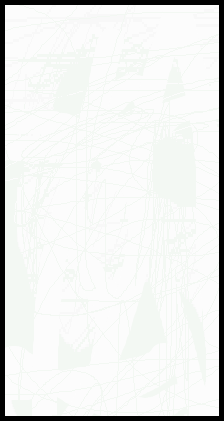
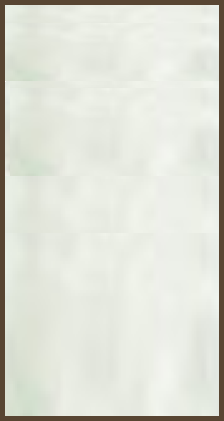
More beauty tiles

diff --git a/frontend/src/components/App.js b/frontend/src/components/App.js
@@ -1,10 +1,10 @@
 import React from "react"
 import { Canvas, useThree } from "react-three-fiber"
-import { OrbitControls, Box } from "drei"
+import { OrbitControls, Box, Stars } from "drei"
 
-import { TileToBuy, CornerTile } from "./Tile.js"
+import { CityTile, CornerTile } from "./Tile.js"
 import WS from "../utils/WS.js"
-import Color from "../utils/colors.js"
+// import Color from "../utils/colors.js"
 
 import "./App.css"
 
@@ -39,7 +39,7 @@ export default class App extends React.Component {
       }
     } )
 
-    this.ws.emit( `searchGame`, { square:5 } )
+    this.ws.emit( `searchGame`, { square:9 } )
   }
 
   loadSquareMap( tiles, size ) {
@@ -69,8 +69,7 @@ export default class App extends React.Component {
     const boxes = []
     const { loadedBoard } = this.state
     const { size, tiles } = loadedBoard
-    const paintedTiles = {}
-    const positionMultiplier = 1.1
+    const positionMultiplier = 1.0
 
     let lastCorner = 0
     for (let i = 0, x = 1, z = 1; i < (size ** 2 - (size - 2) ** 2); ++i) {
@@ -83,6 +82,7 @@ export default class App extends React.Component {
         (z - (size + 1) / 2) * positionMultiplier,
       ]
 
+      // const paintedTiles = {}
       // let color = 0x33333333
       // if (id) {
       //   if (!(id in paintedTiles)) {
@@ -99,14 +99,14 @@ export default class App extends React.Component {
       //   color = paintedTiles[ id ]
       // }
 
-      if (true || i % 4 !== 0) {
+      if (true || i % (size - 1) !== 0) {
         if (x === 1) position[ 0 ] -= .5
         if (x === size) position[ 0 ] += .5
         if (z === 1) position[ 2 ] -= .5
         if (z === size) position[ 2 ] += .5
       }
 
-      if (i % 4 === 0) {
+      if (i % (size - 1) === 0) {
         isCorner = true
         lastCorner++
         rotate = lastCorner
@@ -129,7 +129,8 @@ export default class App extends React.Component {
           position={position}
         /> )
       } else {
-        boxes.push( <TileToBuy
+        boxes.push( <CityTile
+          name={name}
           isCorner={isCorner}
           key={`${x};${z}`}
           rotate={rotate}
@@ -152,13 +153,15 @@ export default class App extends React.Component {
         {boxes}
         {/* <Box args={[ 7.5, 0.1, 7.5 ]} position={[ 0, -0.1, 0 ]}> */}
         <Box
-          args={[ 20, 0.1, 20 ]}
-          position={[ 0, -0.05, 0 ]}
+          args={[ 11.01, 0.1, 11.01 ]}
+          position={[ 0, -0.06, 0 ]}
           onPointerOver={e => e.stopPropagation()}
           onPointerOut={e => e.stopPropagation()}
         >
+          {/* <lineBasicMaterial attach="material" color={0xffffff} /> */}
           <lineBasicMaterial attach="material" color={0x202020} />
         </Box>
+        <Stars />
       </Canvas>
     </>
   }
@@ -169,5 +172,5 @@ function Camera() {
 
   camera.position.set( 0, 10, 0 )
 
-  return <OrbitControls />
+  return <OrbitControls rotateSpeed={0.5} />
 }

diff --git a/frontend/src/components/Tile.js b/frontend/src/components/Tile.js
@@ -2,6 +2,7 @@ import React from "react"
 import { Text, Box } from "drei"
 import * as THREE from "three"
 import imgTile from "./test.png"
+import imgFrame from "./frame.png"
 import imgSand from "./sand.png"
 
 class Tile extends React.Component {
@@ -11,10 +12,19 @@ class Tile extends React.Component {
   state = {
     color: this.props.color || 0xaaaaaa,
     rotate: this.props.rotate || 0,
-    y: 0,
   }
 
   active = false
+
+  /** @type {THREE.MeshBasicMaterial[]} */
+  materialArray = [
+    new THREE.MeshBasicMaterial( { color:`#dacfd7` } ),
+    new THREE.MeshBasicMaterial( { color:`#dacfd7` } ),
+    new THREE.MeshBasicMaterial( { color:`#ffffff` } ),
+    new THREE.MeshBasicMaterial( { color:`#dacfd7` } ),
+    new THREE.MeshBasicMaterial( { color:`#dacfd7` } ),
+    new THREE.MeshBasicMaterial( { color:`#dacfd7` } ),
+  ]
 
   events = {
     onPointerDown: e => {
@@ -59,34 +69,39 @@ class Tile extends React.Component {
   }
 }
 
-export class TileToBuy extends Tile {
+export class CityTile extends Tile {
   render() {
-    const { position, isCorner } = this.props
-    const { rotate, color, y } = this.state
+    const { position, isCorner, name } = this.props
+    const { rotate, color } = this.state
     const loader = new THREE.TextureLoader()
+    // const material = new THREE.MeshF
     const texTile = loader.load( imgTile )
+    const texFrame = loader.load( imgFrame )
     const textAttrs = {
       scale: [ 1, -1, 1 ],
       rotation: [ Math.PI / 180 * 90, 0, isCorner ? Math.PI / 180 * (rotate * 90 + 45) : 0 ],
       color: `black`,
-      fontSize: 0.2,
+      letterSpacing: 0.1,
+      font: `https://fonts.gstatic.com/s/raleway/v14/1Ptrg8zYS_SKggPNwK4vaqI.woff`,
+      fontSize: name.length > 19
+        ? 0.05
+        : name.length < 8
+        ? 0.15
+        : 0.1,
     }
 
-    position[ 1 ] += y
-    console.log( position )
+    this.materialArray[ 2 ].map = texTile
 
     return <group
       {...this.events}
       rotation={[ 0, isCorner ? 0 : Math.PI / 180 * rotate, 0 ]}
       position={[...position]}
     >
-      <Text {...textAttrs} position={[ 0, 0.06, -0.5 ]}>Miasto</Text>
-      <Text {...textAttrs} position={[ 0, 0.06, 0.8 ]}>Cena $</Text>
-      <Box args={[ 1, .1, 1.6 ]} position={[ 0, 0, 0.2 ]}>
-        <meshMatcapMaterial attach="material" map={texTile} color={0xeeeeee} />
-      </Box>
+      <Text {...textAttrs} position={[ 0, 0.06, -0.5 ]}>{name}</Text>
+      <Text {...textAttrs} fontSize={0.15} position={[ 0, 0.06, 0.6 ]}>999$</Text>
+      <Box material={this.materialArray} args={[ 1, .1, 1.6 ]} position={[ 0, 0, 0.2 ]} />
       <Box args={[ 1, .1, 0.4 ]} position={[ 0, 0, -0.8 ]}>
-        <meshBasicMaterial attach="material" color={color} />
+        <meshBasicMaterial attach="material" map={texFrame} color={color} />
       </Box>
     </group>
   }

diff --git a/backend/src/game.rs b/backend/src/game.rs
@@ -73,6 +73,59 @@ impl Board {
 
         Board { board_type, tiles }
       },
+      BoardType::Square( 9 ) => {
+        let tiles = vec![
+          // First edge
+          Tile::new( TileType::Start ),
+
+          Tile::new( TileType::City( 1, "#d84e9c".to_owned(), "Granada".to_owned() ) ),
+          Tile::new( TileType::City( 1, "#d84e9c".to_owned(), "Seville".to_owned() ) ),
+          Tile::new( TileType::City( 2, "#fb9942".to_owned(), "Madrid".to_owned() ) ),
+          Tile::new( TileType::City( 2, "#fb9942".to_owned(), "Haldives".to_owned() ) ),
+          Tile::new( TileType::City( 2, "#fb9942".to_owned(), "Kongo".to_owned() ) ),
+          Tile::new( TileType::City( 2, "#fb9942".to_owned(), "Beijlino".to_owned() ) ),
+          Tile::new( TileType::City( 2, "#fb9942".to_owned(), "Shanghai".to_owned() ) ),
+
+          // Second edge
+          Tile::new( TileType::Jail ),
+
+          Tile::new( TileType::City( 2, "#fb9942".to_owned(), "Venice".to_owned() ) ),
+          Tile::new( TileType::City( 2, "#fb9942".to_owned(), "Milan".to_owned() ) ),
+          Tile::new( TileType::City( 2, "#fb9942".to_owned(), "Rome".to_owned() ) ),
+          Tile::new( TileType::City( 2, "#fb9942".to_owned(), "Gniewino".to_owned() ) ),
+          Tile::new( TileType::City( 2, "#fb9942".to_owned(), "Hamburg".to_owned() ) ),
+          Tile::new( TileType::City( 2, "#fb9942".to_owned(), "Cyprus".to_owned() ) ),
+          Tile::new( TileType::City( 2, "#fb9942".to_owned(), "Berlin".to_owned() ) ),
+
+          // Third edge
+          Tile::new( TileType::Parking ),
+
+          Tile::new( TileType::City( 4, "#f7f844".to_owned(), "London".to_owned() ) ),
+          Tile::new( TileType::City( 4, "#f7f844".to_owned(), "Sochi".to_owned() ) ),
+          Tile::new( TileType::City( 4, "#f7f844".to_owned(), "Sydney".to_owned() ) ),
+          Tile::new( TileType::City( 4, "#f7f844".to_owned(), "Poznań".to_owned() ) ),
+          Tile::new( TileType::City( 4, "#f7f844".to_owned(), "Chickago".to_owned() ) ),
+          Tile::new( TileType::City( 4, "#f7f844".to_owned(), "Vegas".to_owned() ) ),
+          Tile::new( TileType::City( 4, "#f7f844".to_owned(), "New York".to_owned() ) ),
+
+          // Fourth edge
+          Tile::new( TileType::GoToJail ),
+
+          Tile::new( TileType::City( 4, "#f7f844".to_owned(), "Adobe".to_owned() ) ),
+          Tile::new( TileType::City( 4, "#f7f844".to_owned(), "Lyon".to_owned() ) ),
+          Tile::new( TileType::City( 4, "#f7f844".to_owned(), "Paris".to_owned() ) ),
+          Tile::new( TileType::City( 4, "#f7f844".to_owned(), "Śląsk".to_owned() ) ),
+          Tile::new( TileType::City( 4, "#f7f844".to_owned(), "Kazan".to_owned() ) ),
+          Tile::new( TileType::City( 4, "#f7f844".to_owned(), "Cegielnia".to_owned() ) ),
+          Tile::new( TileType::City( 4, "#f7f844".to_owned(), "Mobyn".to_owned() ) ),
+        ];
+
+        if tiles.len() != 32 {
+          panic!( "BoardType with size 9 should had 32 tiles!" );
+        }
+
+        Board { board_type, tiles }
+      },
       BoardType::Square( size ) => {
         Board {
           board_type: BoardType::Square( size ),
